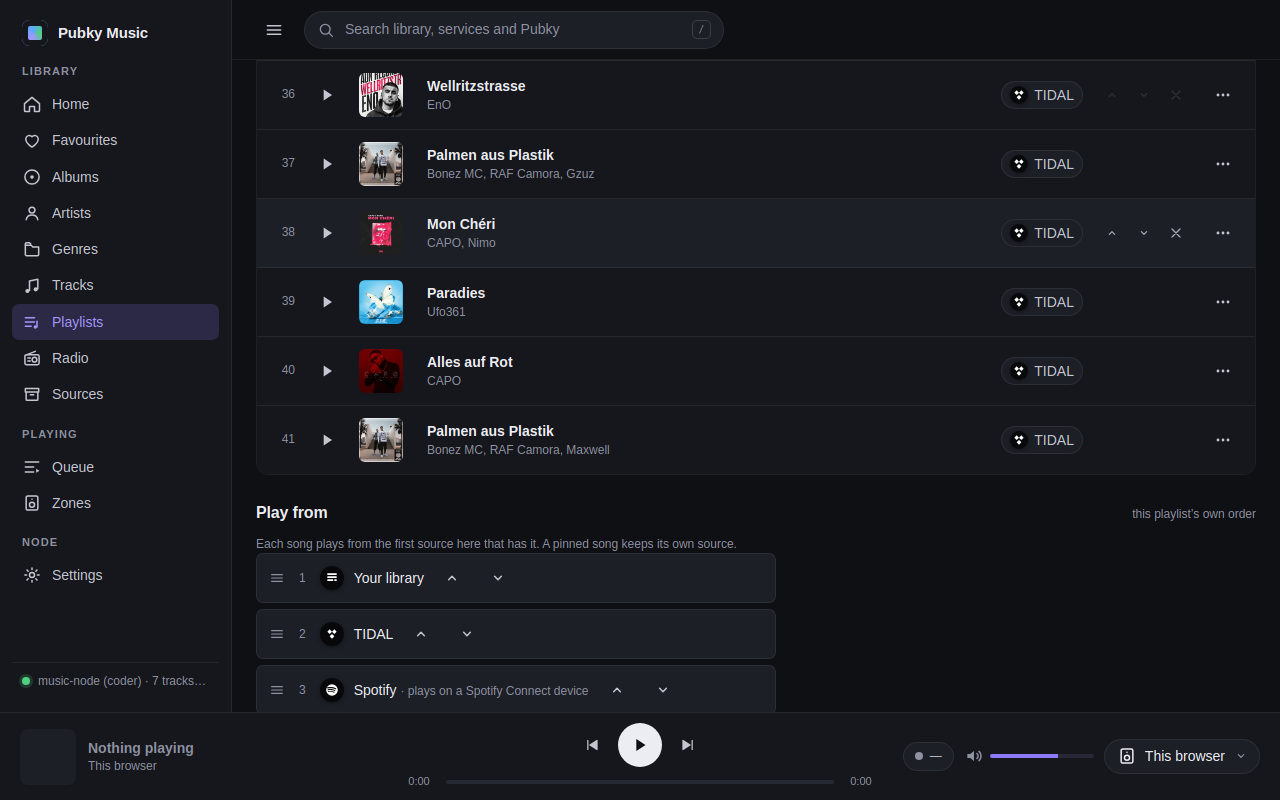
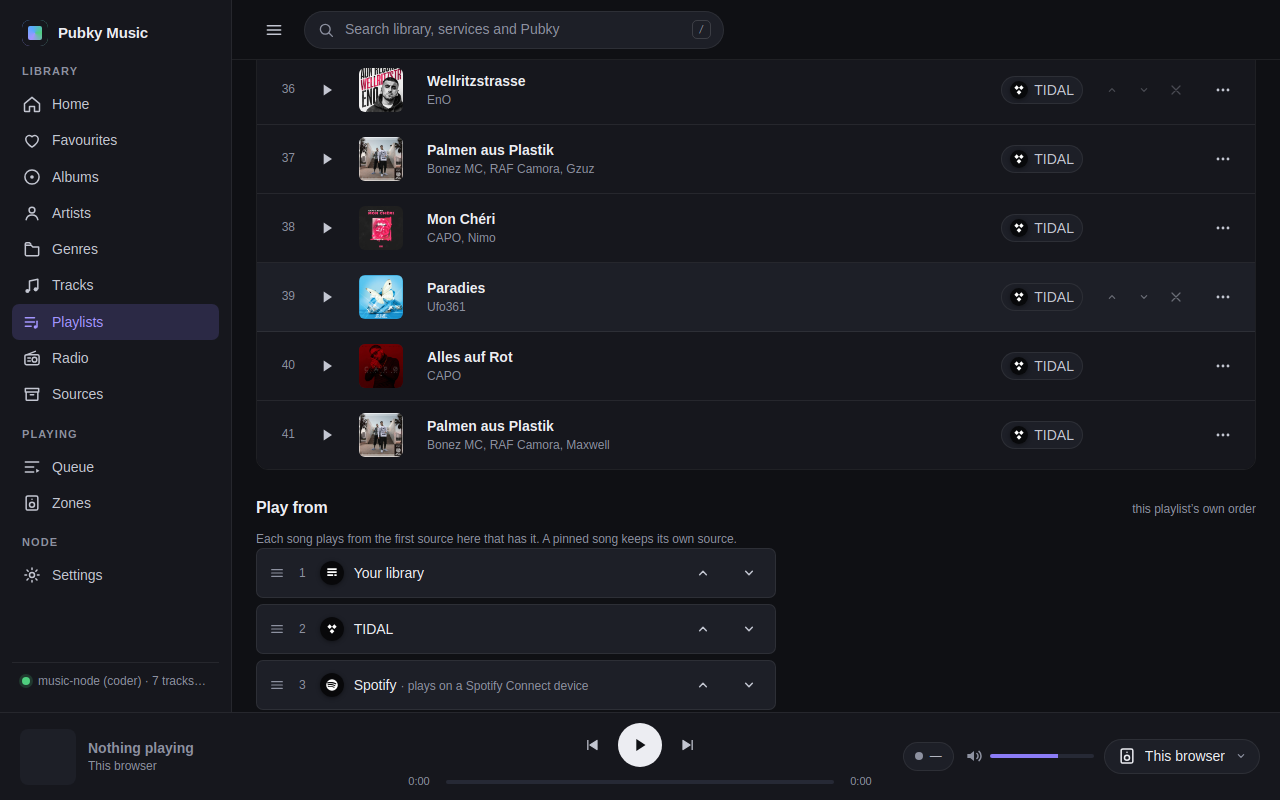
Import asks once: keep TIDAL/Spotify as each song's source, or Auto
Step 4 (STEWARD-UX-BRIEF §3, ADR 0015). Importing a provider playlist opens a small dialog.
"Keep TIDAL" (or Spotify) pins every song to its exact track there; "Auto" lets songs follow the
play order. Items stay canonical either way.
- API: ?keep_source=true on the TIDAL and Spotify playlist imports; POST /v1/playlists takes
  `sources` by position.
- tools/ui-playlist-sources.js opens the dialog and cancels it.

diff --git a/crates/pm-api/static/app.js b/crates/pm-api/static/app.js
@@ -99,6 +99,30 @@
     return json;
   };
 
+  // A small dialog with a few choices; resolves to the picked value, or null (Esc, Cancel).
+  const choiceDialog = ({ title, text, choices }) => new Promise((resolve) => {
+    const d = document.createElement('dialog'); d.className = 'dialog';
+    d.innerHTML = `<h2>${esc(title)}</h2>${text ? `<p class="muted">${esc(text)}</p>` : ''}<div class="choices">${choices.map((c, i) => `<button class="btn choice ${c.primary ? 'primary' : ''}" data-ci="${i}"><span class="choice-label">${esc(c.label)}</span>${c.note ? `<span class="choice-note">${esc(c.note)}</span>` : ''}</button>`).join('')}</div><div class="dialog-actions"><button class="btn ghost" data-ci="-1">Cancel</button></div>`;
+    document.body.appendChild(d);
+    const done = (v) => { d.close(); d.remove(); resolve(v); };
+    $$('[data-ci]', d).forEach((b) => b.onclick = () => done(Number(b.dataset.ci) < 0 ? null : choices[Number(b.dataset.ci)].value));
+    d.addEventListener('cancel', (e) => { e.preventDefault(); done(null); });
+    d.showModal(); const first = $('.choice', d); if (first) first.focus();
+  });
+  // Importing a provider playlist asks once: keep that provider as each song's source, or Auto.
+  const importPlaylist = async (b, service, id) => {
+    const name = SERVICE_NAMES[service] || service;
+    let order = 'your play order'; try { const o = await api('GET', '/play-order'); order = o.order.map(srcName).join(' › '); } catch { /* keep the words */ }
+    const how = await choiceDialog({ title: 'Import this playlist', text: 'Where should its songs play from?', choices: [
+      { label: `Keep ${name}`, note: `Each song is pinned to its ${name} track.`, value: 'keep', primary: true },
+      { label: 'Auto', note: `Each song plays from the first source that has it (${order}).`, value: 'auto' },
+    ] });
+    if (!how) return;
+    b.disabled = true;
+    try { const r = await api('POST', `/sources/${service}/playlists/${encodeURIComponent(id)}/import${how === 'keep' ? '?keep_source=true' : ''}`); state.playlists = await api('GET', '/playlists'); toast(`Imported “${r.playlist.summary.name}”: ${r.imported} songs${r.skipped ? `, ${r.skipped} skipped` : ''}${how === 'keep' ? `, pinned to ${name}` : ''}`); }
+    catch (e) { toast(e.message, 'error'); }
+    b.disabled = false;
+  };
   const login = () => { const d = $('#login'); if (!d.open) { $('#tok').value = state.token; d.showModal(); } };
   // Pubky Ring sign-in: the node starts a flow, we show the link (and a QR when the device has a camera elsewhere), poll until the owner approves, and keep the token it hands out.
   let ringPoll = null;
@@ -1434,7 +1458,7 @@
                 $$('[data-sitem]', box).forEach((b) => b.onclick = () => setView('source-item', { source: 'spotify', id: b.dataset.sitem }));
                 $$('[data-splay]', box).forEach((b) => b.onclick = (e) => { e.stopPropagation(); spotifyPlay([b.dataset.splay], b); });
                 $('#spotfav').onclick = async () => { try { const r = await api('POST', '/sources/spotify/collection/import'); toast(`${r.imported} favourites imported${r.skipped ? `, ${r.skipped} skipped` : ''}`); loadFavourites().catch(() => {}); } catch (e) { toast(e.message, 'error'); } };
-                $$('[data-spl]', box).forEach((b) => b.onclick = async () => { b.disabled = true; try { const r = await api('POST', `/sources/spotify/playlists/${encodeURIComponent(b.dataset.spl)}/import`); state.playlists = await api('GET', '/playlists'); toast(`Imported “${r.playlist.summary.name}”: ${r.imported} tracks${r.skipped ? `, ${r.skipped} skipped` : ''}`); } catch (e) { toast(e.message, 'error'); } b.disabled = false; });
+                $$('[data-spl]', box).forEach((b) => b.onclick = () => importPlaylist(b, 'spotify', b.dataset.spl));
               } catch (e) { box.innerHTML = `<p class="muted small">Spotify library: ${esc(e.message)}</p>`; }
             })();
           }
@@ -1450,7 +1474,7 @@
                   <section class="section"><div class="section-head"><h3>Your playlists</h3><span class="muted small">import one as a private Pubky playlist</span></div>${pls.length ? `<div class="list">${pls.map((p) => `<div class="list-row"><div class="grow"><div class="name">${esc(p.name)}</div><div class="sub">${p.items} tracks${p.description ? ' · ' + esc(p.description) : ''}</div></div><button class="btn sm" data-tpl="${esc(p.id)}">${icon('download')} Import</button></div>`).join('')}</div>` : '<p class="muted">No playlists of your own on TIDAL.</p>'}</section>`;
                 $$('[data-sitem]', box).forEach((b) => b.onclick = () => setView('source-item', { source: 'tidal', id: b.dataset.sitem }));
                 $('#tidalfav').onclick = async () => { try { const r = await api('POST', '/sources/tidal/collection/import'); toast(`${r.imported} favourites imported${r.skipped ? `, ${r.skipped} skipped` : ''}`); loadFavourites().catch(() => {}); } catch (e) { toast(e.message, 'error'); } };
-                $$('[data-tpl]', box).forEach((b) => b.onclick = async () => { b.disabled = true; try { const r = await api('POST', `/sources/tidal/playlists/${encodeURIComponent(b.dataset.tpl)}/import`); state.playlists = await api('GET', '/playlists'); toast(`Imported “${r.playlist.summary.name}”: ${r.imported} tracks${r.skipped ? `, ${r.skipped} skipped` : ''}`); } catch (e) { toast(e.message, 'error'); } b.disabled = false; });
+                $$('[data-tpl]', box).forEach((b) => b.onclick = () => importPlaylist(b, 'tidal', b.dataset.tpl));
               } catch (e) { box.innerHTML = `<p class="muted small">TIDAL collection: ${esc(e.message)}</p>`; }
             })();
           }

diff --git a/tools/ui-playlist-sources.js b/tools/ui-playlist-sources.js
@@ -71,6 +71,20 @@ const api = async (method, path, body) => { const r = await fetch(BASE + '/v1' +
       const g = await p.$$eval('#gorder .porder-row', (e) => e.length);
       check(g === globalBefore.length, `Settings lists the global order (${g})`);
       if (OUT) { await p.$eval('#gordercard', (e) => e.scrollIntoView({ block: 'center' })); await sleep(200); await p.screenshot({ path: `${OUT}/settings-play-from-1280-dark.png` }); }
+      // the import dialog asks once (opened and cancelled: nothing is imported)
+      for (const svc of ['tidal', 'spotify']) {
+        await p.goto(`${BASE}/source/${svc}`); await p.waitForSelector(`[data-${svc[0]}pl]`, { timeout: 20000 }).catch(() => {});
+        const btn = await p.$(`[data-${svc[0]}pl]`);
+        if (!btn) { console.log(`skip: no ${svc} playlists to import here`); continue; }
+        const before = (await api('GET', '/playlists')).length;
+        await btn.click(); await p.waitForSelector('dialog[open] .choice', { timeout: 10000 }).catch(() => {});
+        const choices = await p.$$eval('dialog[open] .choice-label', (e) => e.map((x) => x.textContent));
+        check(choices.length === 2 && choices[0].startsWith('Keep ') && choices[1] === 'Auto', `${svc} import asks: ${JSON.stringify(choices)}`);
+        if (OUT) await p.screenshot({ path: `${OUT}/import-dialog-${svc}-1280-dark.png` });
+        await p.keyboard.press('Escape'); await sleep(300);
+        check(!(await p.$('dialog[open]')) && (await api('GET', '/playlists')).length === before, `${svc}: Esc cancels without importing`);
+        break;
+      }
       await ctx.close();
     }
   } finally {

diff --git a/crates/pm-api/static/app.css b/crates/pm-api/static/app.css
@@ -677,3 +677,8 @@ button.chip:hover { border-color: var(--line-strong); color: var(--fg); }
 @media (hover: hover) { .srow .q-actions { opacity: 0; transition: opacity 0.12s; } .srow:hover .q-actions, .srow:focus-within .q-actions { opacity: 1; } }
 @media (max-width: 600px) { #plsongs .srow .thumb { display: none; } #plsongs .srow { gap: 6px; } #plsongs .srow .q-actions .icon-btn { width: 28px; } }
 .porder-row .grow { flex: 1; min-width: 0; }
+/* Choice dialog (playlist import) */
+.choices { display: flex; flex-direction: column; gap: 8px; }
+.btn.choice { flex-direction: column; align-items: flex-start; gap: 2px; text-align: left; padding: 12px 14px; height: auto; white-space: normal; border-radius: 12px; }
+.choice-label { font-weight: 600; }
+.choice-note { font-size: 12px; font-weight: 400; opacity: 0.8; }

diff --git a/crates/pm-api/src/tidal.rs b/crates/pm-api/src/tidal.rs
@@ -1432,7 +1432,9 @@ pub(crate) async fn playlists(State(s): State<Arc<NodeState>>) -> ApiResult<Vec<
 pub(crate) async fn import_playlist(
     State(s): State<Arc<NodeState>>,
     axum::extract::Path(id): axum::extract::Path<String>,
+    axum::extract::Query(opt): axum::extract::Query<ImportOptions>,
 ) -> ApiResult<ImportReport> {
+    let keep = opt.keep_source.unwrap_or(false);
     signed_in_user(&s)?;
     if id.is_empty() || !id.bytes().all(|b| b.is_ascii_alphanumeric() || b == b'-') {
         return Err(ApiError::bad_request("bad TIDAL playlist id"));
@@ -1447,6 +1449,7 @@ pub(crate) async fn import_playlist(
         .filter(|d| !d.is_empty())
         .map(str::to_string);
     let mut uris = Vec::new();
+    let mut sources = Vec::new();
     let mut skipped = 0usize;
     let mut page = get_json(
         &s,
@@ -1462,7 +1465,13 @@ pub(crate) async fn import_playlist(
                 d["id"].as_str().unwrap_or("").to_string(),
             );
             match inc.get(&key).and_then(|t| canonical_track(t)) {
-                Some(u) => uris.push(u.to_url()),
+                Some(u) => {
+                    uris.push(u.to_url());
+                    sources.push((keep && key.0 == "tracks").then(|| pm_pubky::ItemSource {
+                        service: SOURCE_ID.into(),
+                        uri: Some(tidal_url("track", &key.1)),
+                    }));
+                }
                 None => skipped += 1,
             }
         }
@@ -1486,6 +1495,7 @@ pub(crate) async fn import_playlist(
             image: None,
             uris,
             track_ids: Vec::new(),
+            sources,
         }),
     )
     .await?;

diff --git a/crates/pm-api/src/spotify.rs b/crates/pm-api/src/spotify.rs
@@ -843,7 +843,9 @@ pub(crate) async fn playlists(State(s): State<Arc<NodeState>>) -> ApiResult<Vec<
 pub(crate) async fn import_playlist(
     State(s): State<Arc<NodeState>>,
     Path(id): Path<String>,
+    axum::extract::Query(opt): axum::extract::Query<ImportOptions>,
 ) -> ApiResult<ImportReport> {
+    let keep = opt.keep_source.unwrap_or(false);
     need_user(&s)?;
     let id = valid_id(&id)?.to_string();
     let head = get_json(
@@ -859,10 +861,19 @@ pub(crate) async fn import_playlist(
         .map(str::to_string);
     let items = paged_items(&s, &format!("/playlists/{id}/tracks"), &[("limit", "100".into())]).await?;
     let mut uris = Vec::new();
+    let mut sources = Vec::new();
     let mut skipped = 0usize;
     for it in &items {
         match canonical_track(&it["track"]) {
-            Some(u) => uris.push(u.to_url()),
+            Some(u) => {
+                uris.push(u.to_url());
+                sources.push(keep.then(|| it["track"]["id"].as_str()).flatten().map(|tid| {
+                    pm_pubky::ItemSource {
+                        service: SOURCE_ID.into(),
+                        uri: Some(format!("https://open.spotify.com/track/{tid}")),
+                    }
+                }));
+            }
             None => skipped += 1,
         }
     }
@@ -881,6 +892,7 @@ pub(crate) async fn import_playlist(
             image: None,
             uris,
             track_ids: Vec::new(),
+            sources,
         }),
     )
     .await?;

diff --git a/crates/pm-api/src/lib.rs b/crates/pm-api/src/lib.rs
@@ -5104,6 +5104,28 @@ mod tests {
             .as_str()
             .unwrap()
             .contains("tidal.com/track/20115557"));
+        assert!(items[0].get("source").is_none(), "Auto unless asked");
+        // "Keep TIDAL as the source": every song is pinned to its TIDAL track
+        let (st, r) = call(
+            &app,
+            "POST",
+            "/v1/sources/tidal/playlists/pl-1/import?keep_source=true",
+            None,
+        )
+        .await;
+        assert_eq!(st, StatusCode::OK, "{r}");
+        let items = r["playlist"]["playlist"]["items"].as_array().unwrap();
+        assert_eq!(
+            items[0]["uri"], "https://musicbrainz.org/isrc/USQX91300108",
+            "items stay canonical"
+        );
+        assert_eq!(items[0]["source"]["service"], "tidal");
+        assert!(
+            items[0]["source"]["uri"].as_str().unwrap().contains("tidal.com/"),
+            "{}",
+            items[0]
+        );
+        assert_eq!(items[1]["source"]["service"], "tidal");
         // A stale state is refused; sign-out forgets the tokens.
         let req = Request::builder()
             .uri("/tidal/callback?code=x&state=unknown")

diff --git a/crates/pm-api/src/types.rs b/crates/pm-api/src/types.rs
@@ -619,6 +619,17 @@ pub struct CreatePlaylist {
     /// Library tracks; each must have a canonical identity.
     #[serde(default)]
     pub track_ids: Vec<i64>,
+    /// Pins for `uris`, by position (ADR 0015); missing or `null` means Auto.
+    #[serde(default, skip_serializing_if = "Vec::is_empty")]
+    pub sources: Vec<Option<pm_pubky::ItemSource>>,
+}
+
+/// `?keep_source=true` on a provider playlist import pins every song to its track on that
+/// provider; otherwise the songs follow the playlist's order (Auto).
+#[derive(Debug, Clone, Serialize, Deserialize, Default)]
+pub struct ImportOptions {
+    #[serde(default)]
+    pub keep_source: Option<bool>,
 }
 
 #[derive(Debug, Clone, Serialize, Deserialize, Default)]

diff --git a/crates/pm-api/src/playlists.rs b/crates/pm-api/src/playlists.rs
@@ -181,6 +181,9 @@ pub(crate) async fn create(
 ) -> ApiResult<PlaylistDetail> {
     let lib = s.library.lock().expect("library poisoned");
     let mut items = parse_uris(&body.uris)?;
+    for (it, src) in items.iter_mut().zip(&body.sources) {
+        it.source = src.clone();
+    }
     for u in uris_for_tracks(&lib, &body.track_ids)? {
         items.push(PlaylistItem::new(&MusicUri::parse(&u).expect("canonical")));
     }

diff --git a/docs/CHANGELOG.md b/docs/CHANGELOG.md
@@ -4,6 +4,7 @@ Newest first. Dates are when the change landed on `main`.
 
 ## 2026-10-21
 
+- **Importing a TIDAL or Spotify playlist asks once** (step 4, ADR 0015). "Keep TIDAL" pins every song to its exact TIDAL (or Spotify) track. "Auto" lets each song follow your play order. Items stay canonical either way. API: `POST /v1/sources/{tidal,spotify}/playlists/{id}/import?keep_source=true`, and `POST /v1/playlists` takes `sources` (pins by position). Esc or Cancel imports nothing. Shot: `docs/ux/shots/playlist-sources/import-dialog-tidal-1280-dark.png`.
 - **Where playlist songs play from** (step 4, STEWARD-UX-BRIEF §3, ADR 0015).
   - Each song row has a source chip (Library, TIDAL, Spotify, …), or "Unavailable" with the reason.
   - A click on the chip lists every source the song has on this node, plus "Auto (follow the playlist)". Picking one pins the song, shown by a pin mark on the chip.
